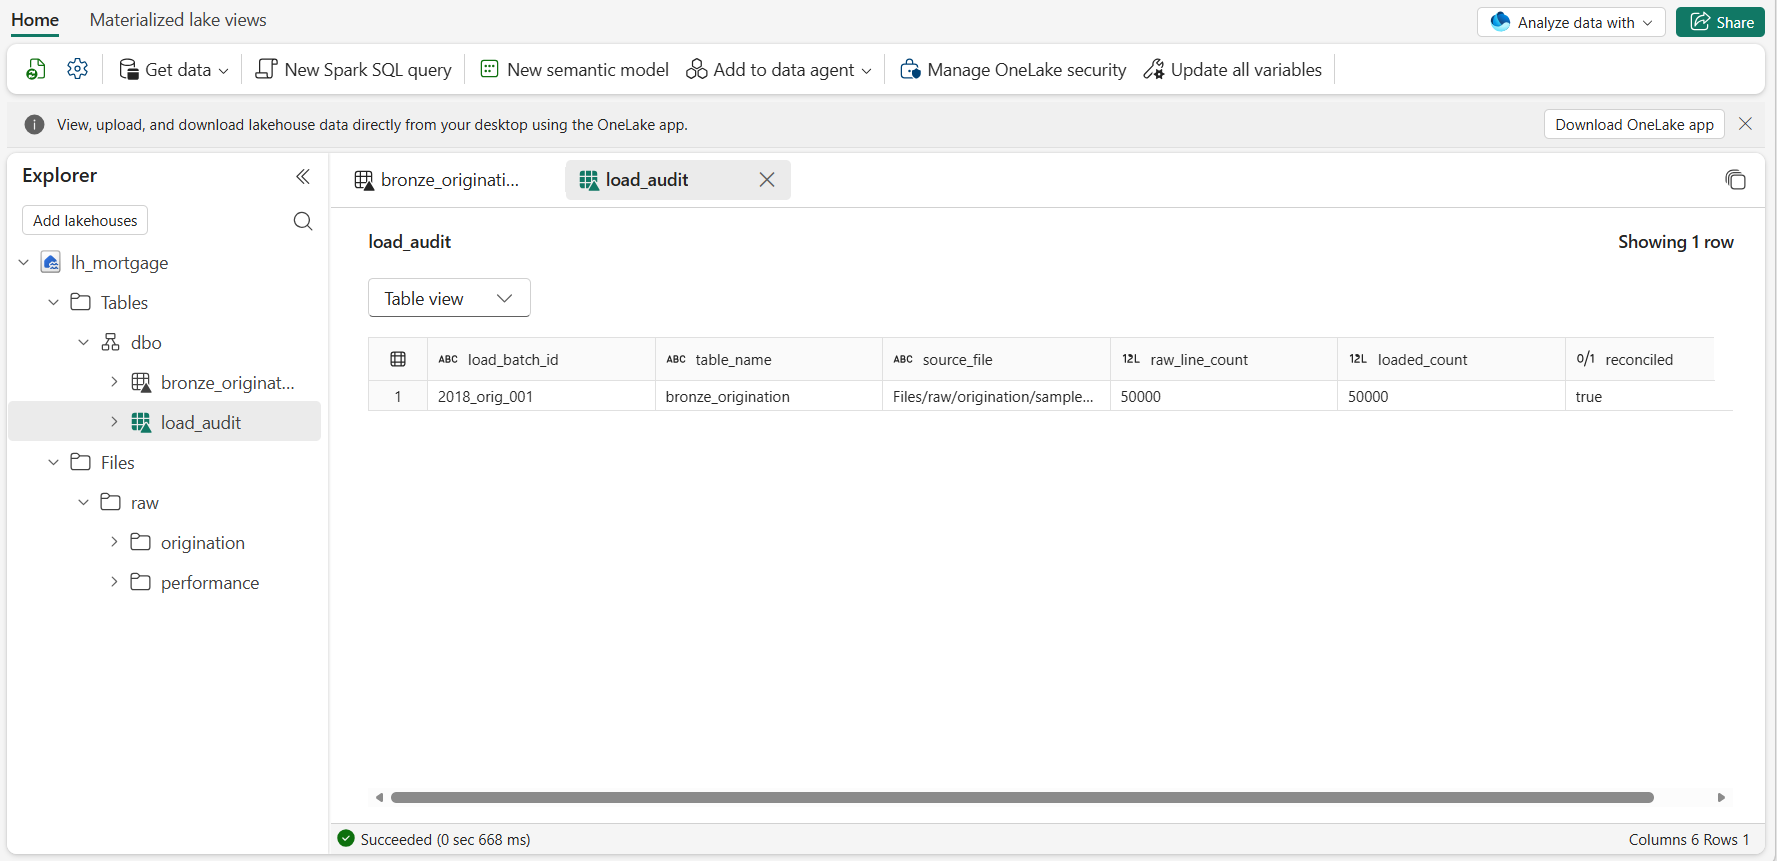
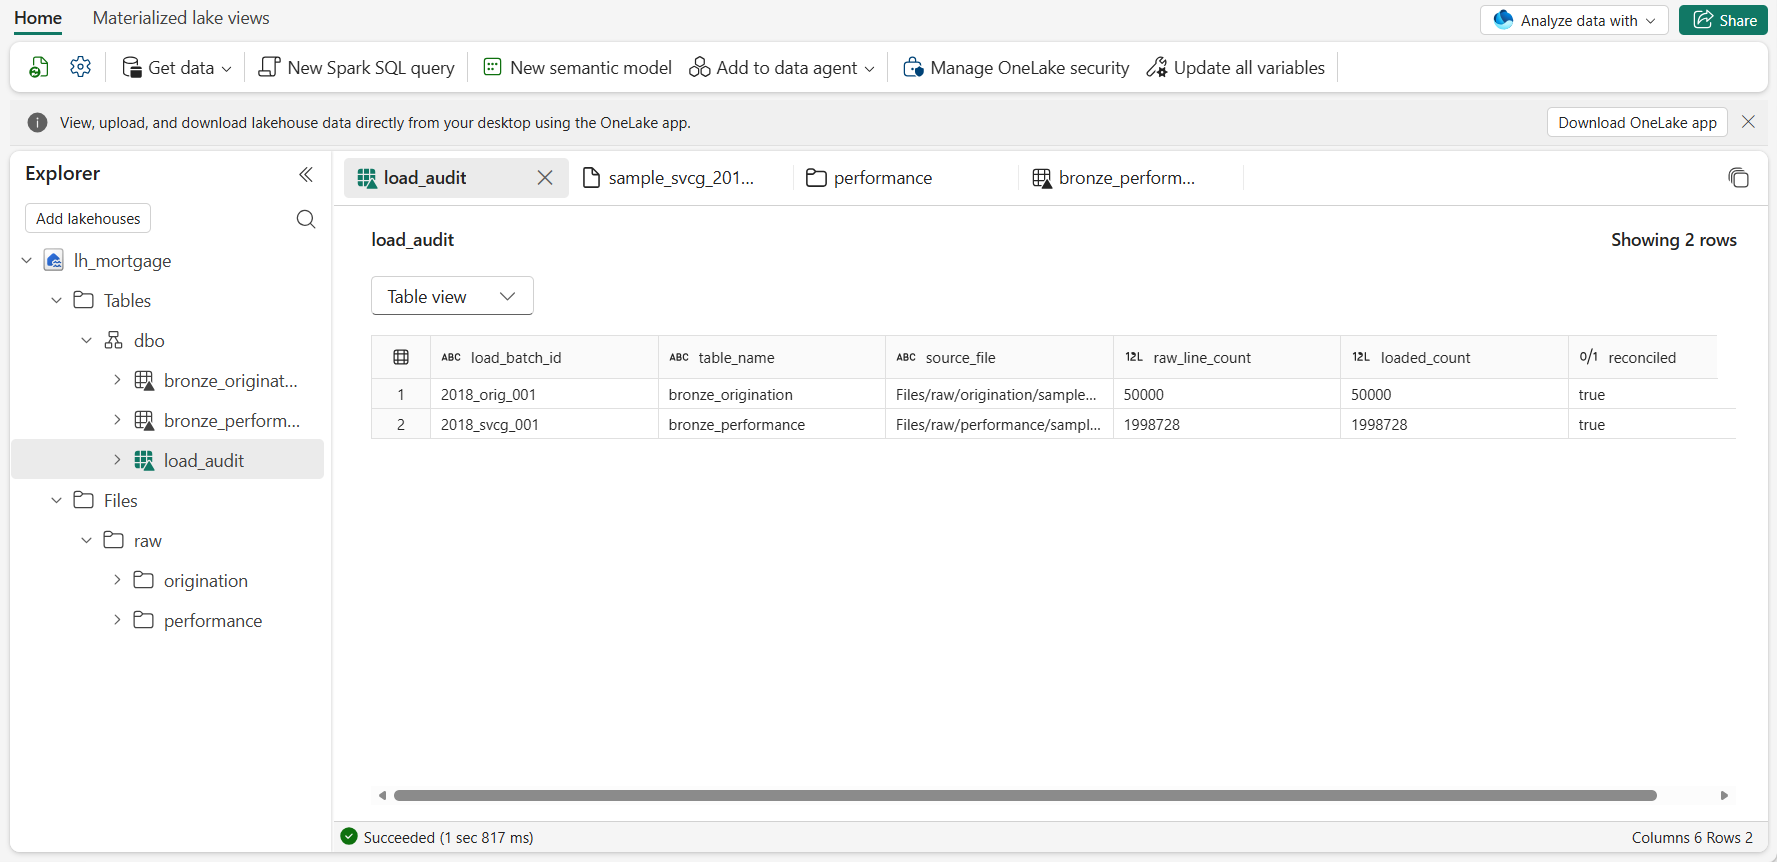
Add bronze performance load: notebook and combined load_audit

diff --git a/README.md b/README.md
@@ -27,16 +27,24 @@ Each file lists the columns in exact file order (order is what I relied on, sinc
 
 ## Bronze layer - loan-level ingestion
 
-The ["notebooks/01_bronze_origination.ipynb"](notebooks/01_bronze_origination.ipynb)
-notebook lands the raw Freddie Mac origination file into the Lakehouse as a Delta
-table ("bronze_origination").
+Two notebooks land the raw Freddie Mac files into the Lakehouse as Delta tables:
+
+- ["notebooks/01_bronze_origination.ipynb"](notebooks/01_bronze_origination.ipynb)
+  lands the origination file as "bronze_origination" (one row per loan, ~50k rows).
+- ["notebooks/02_bronze_performance.ipynb"](notebooks/02_bronze_performance.ipynb)
+  lands the monthly performance file as "bronze_performance" (one row per loan per
+  month, ~2M rows).
+
+The row-count difference reflects the grain of each file: origination is one row
+per loan, while performance is one row per loan per reporting month.
 
 The bronze layer follows two principles:
 - **Faithful landing** - every column is read as text, so source values (including
   sentinels like "9999") are preserved exactly and typed later in dbt.
 - **Auditable loads** - each row carries lineage (load batch, ingestion timestamp,
   source file), and every load is reconciled (raw line count vs loaded rows) with
-  the result written to a "load_audit" table.
+  the result appended to a "load_audit" table. Both loads reconciled successfully,
+  and the audit table accumulates one row per load as a running ledger.
 
 ### Pipeline evidence
 
@@ -46,9 +54,9 @@ The bronze layer follows two principles:
 **Column names applied from the confirmed layout**
 ![Applied column names to the raw file](docs/images/1.1-applied-column-names.png)
 
-**Load audit table**
+**Load audit table - both loads reconciled**
+![Load audit check for both delta tables](docs/images/1.4-load-audit-for-both-delta-tables.png)
 ![Load audit table recording each load](docs/images/1.2-load-audit-table.png)
 
 **Reconciliation check - raw line count vs loaded rows**
 ![Table load reconciliation checks](docs/images/1.3-reconciliation-checks.png)
-
